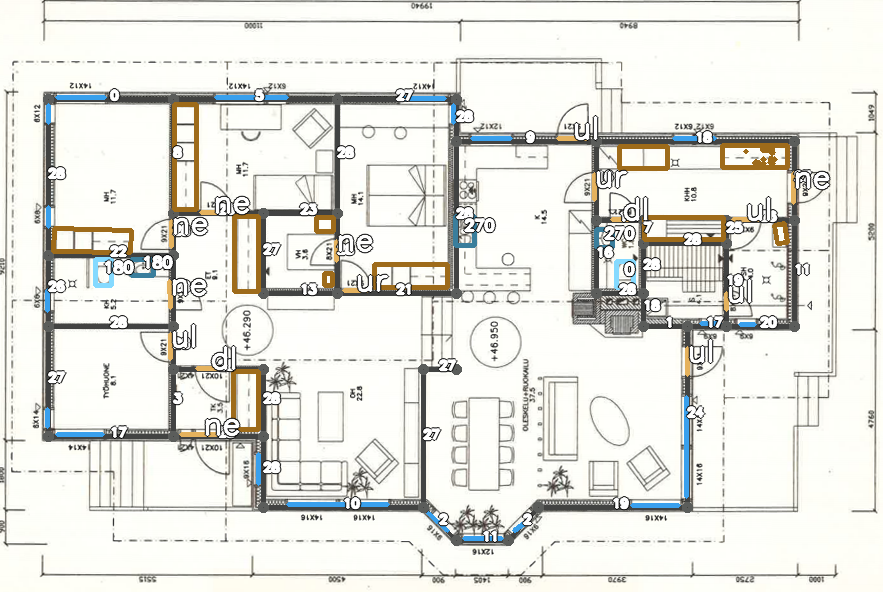
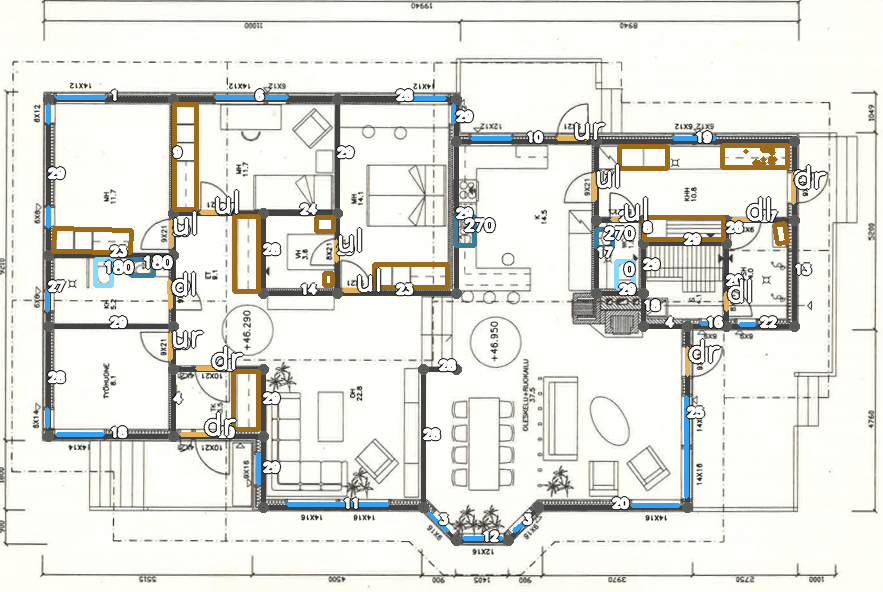
Fix door classification

diff --git a/Recognition/symbol_classification/door_classification.py b/Recognition/symbol_classification/door_classification.py
@@ -48,6 +48,6 @@ def classify_door(door, wall, original_img):
         'single_dl', 'single_dr', 'single_ul', 'single_ur',
     )
 
-    model = Model.get(checkpoints_path/'doors.pth', 100, classes)
+    model = Model.get(checkpoints_path/'doors.pth', 40, classes)
     cropped_door = crop_door(door, wall, original_img)
     return model.predict(cropped_door)
